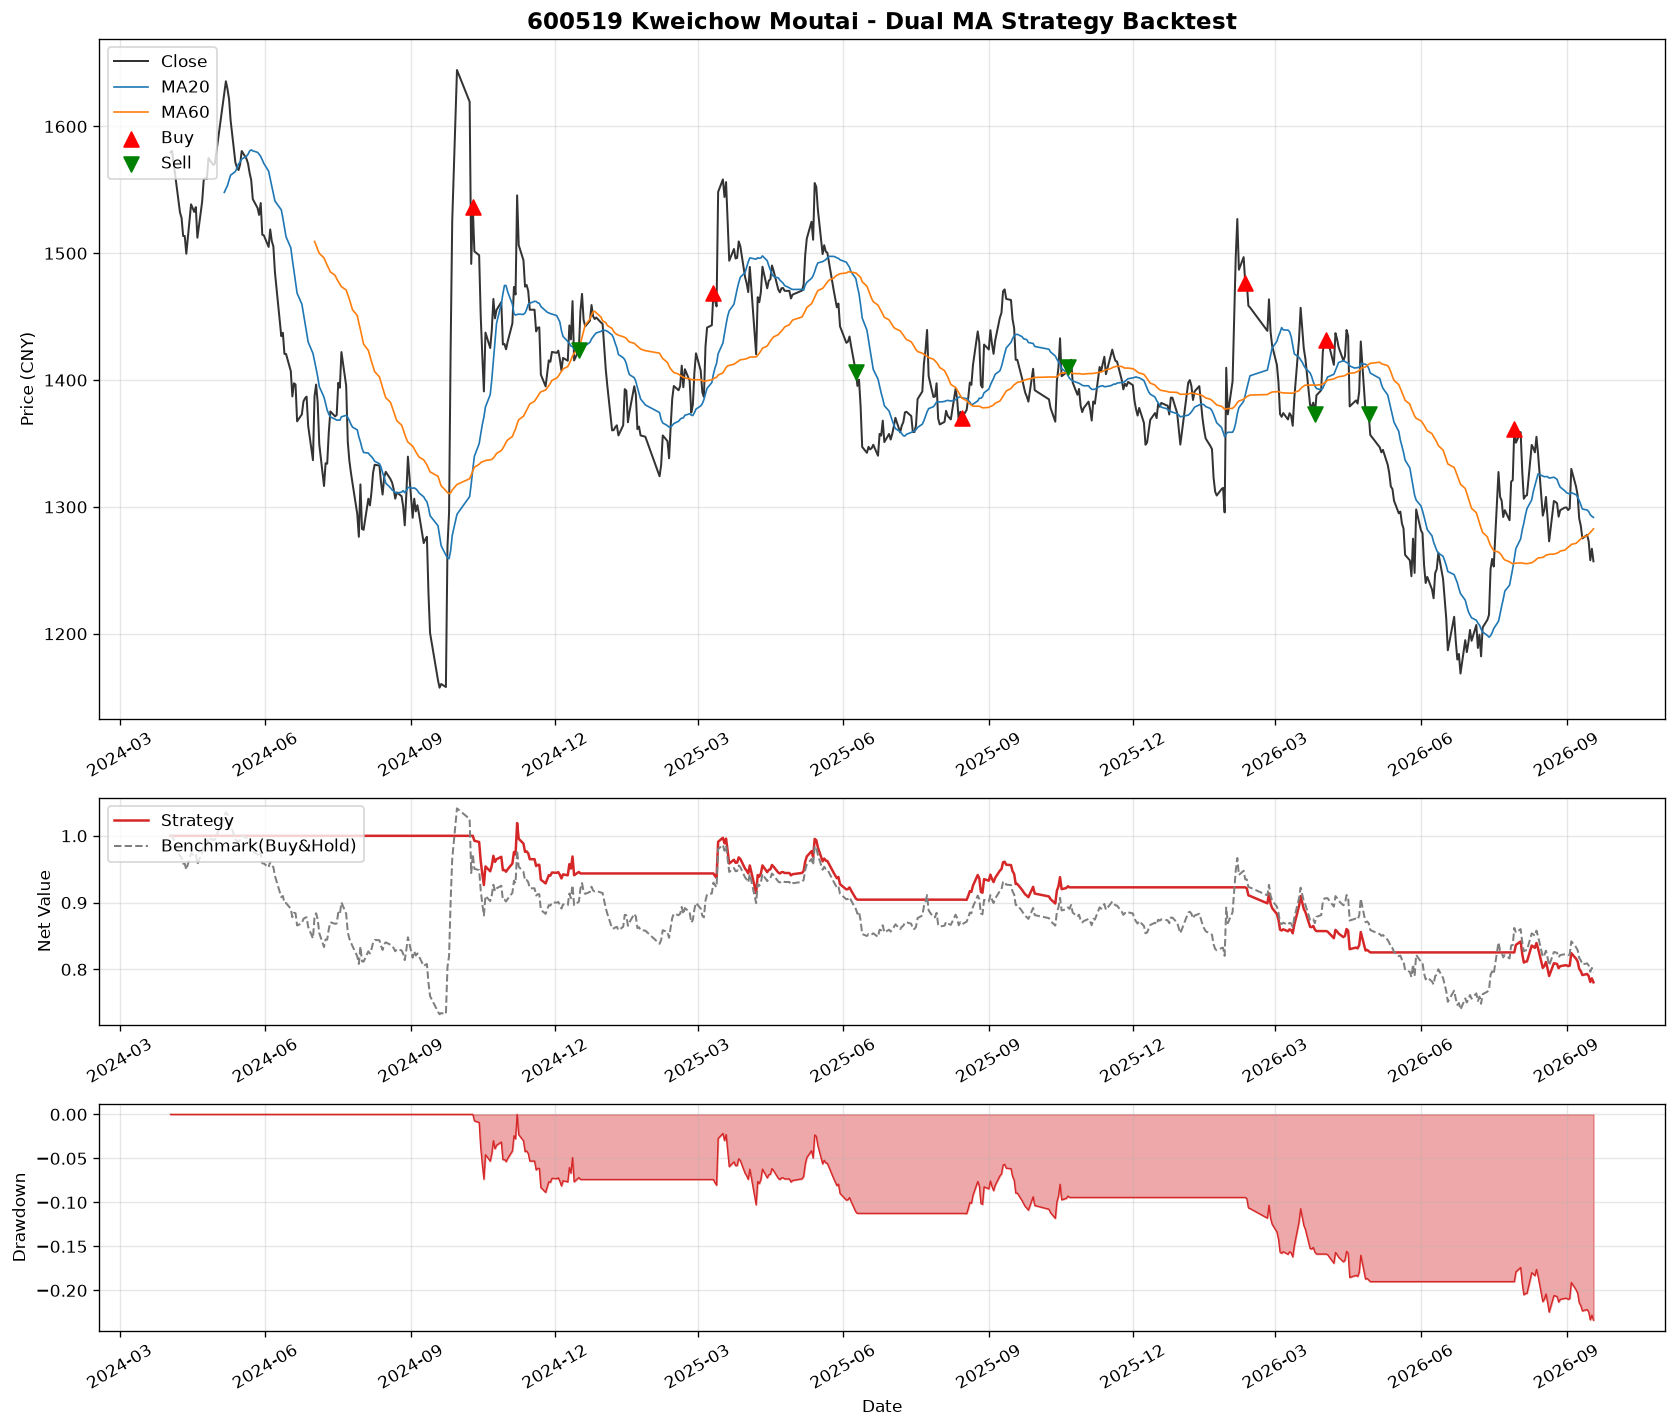
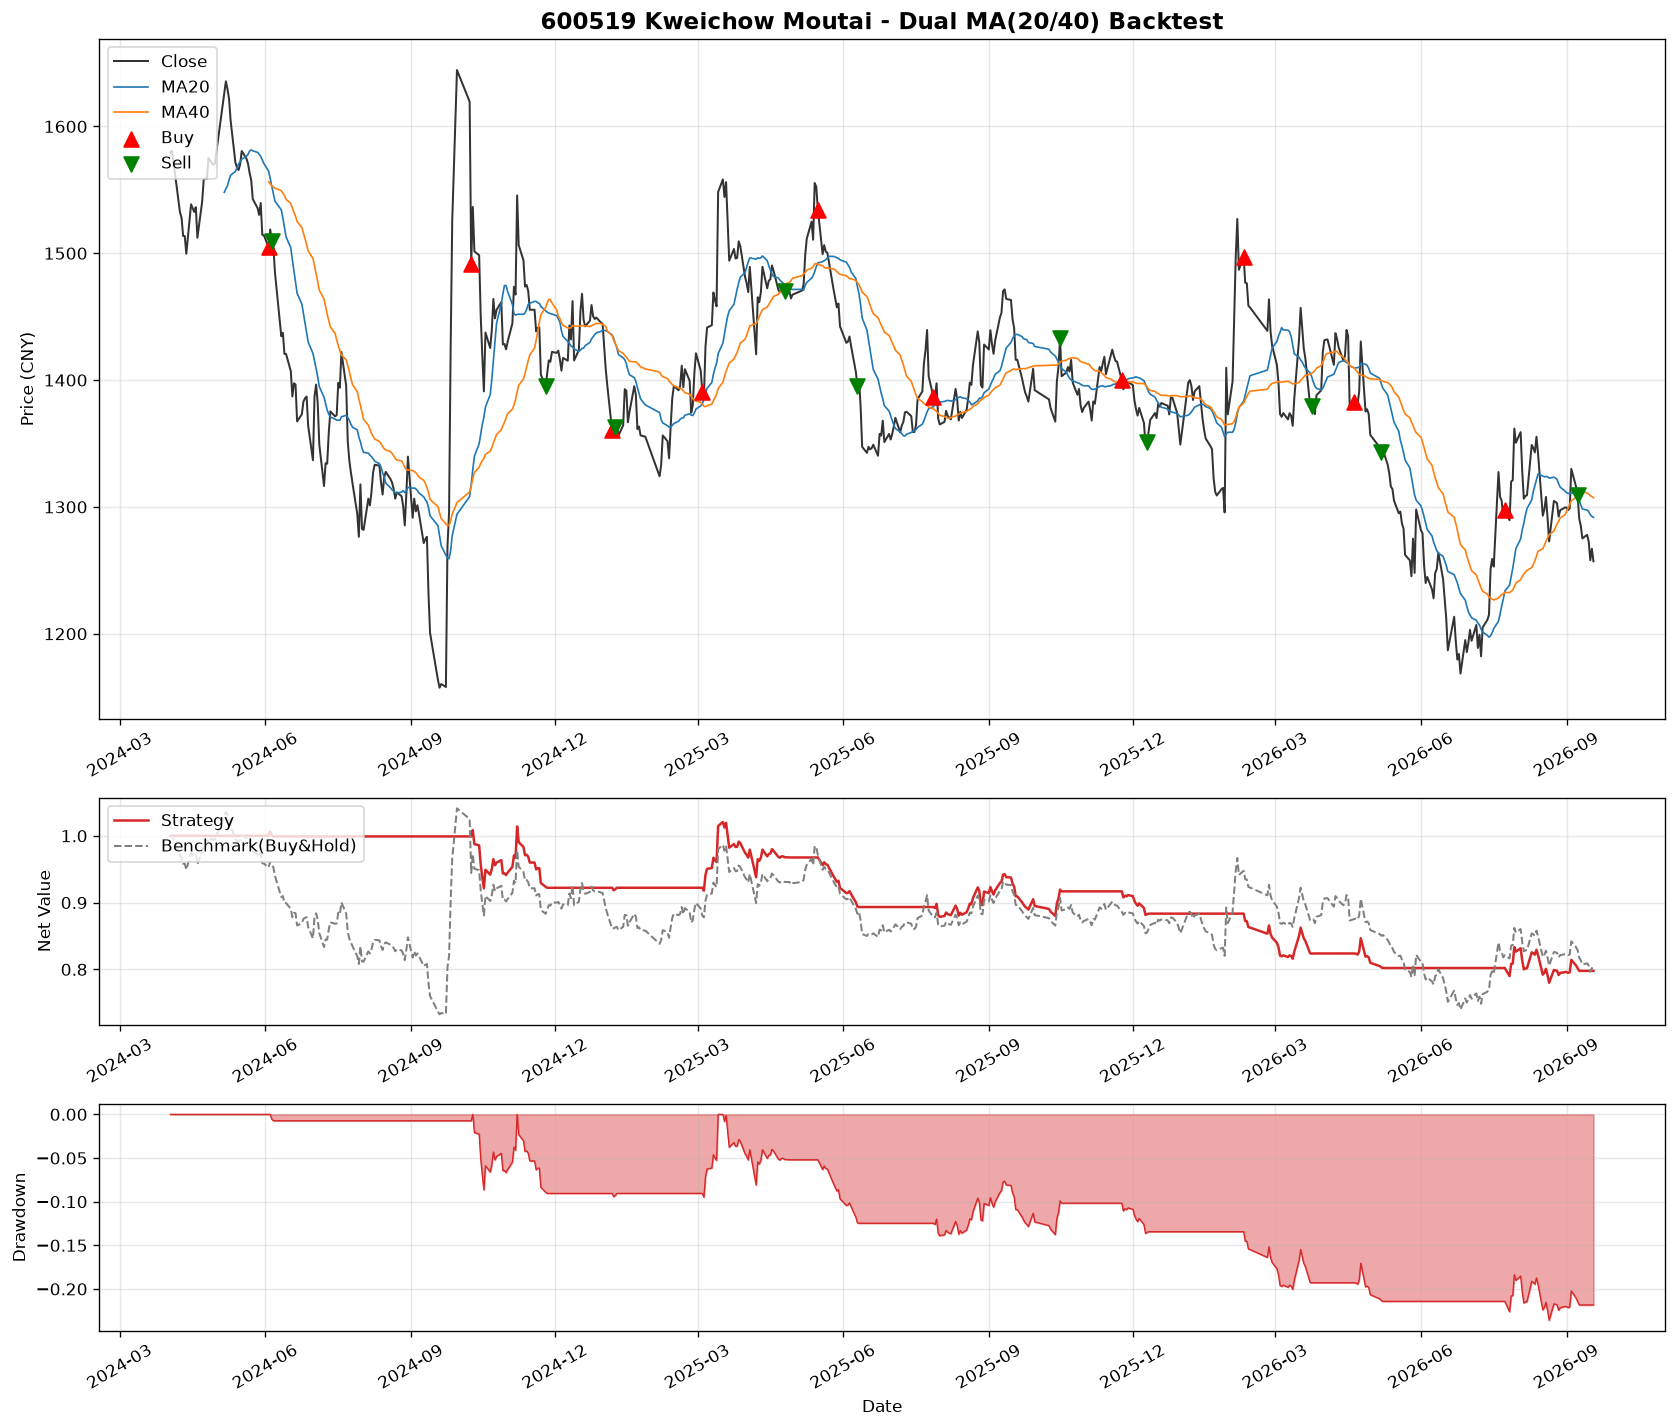
feat: 开发量化交易策略

diff --git a/quant_strategy.py b/quant_strategy.py
@@ -30,12 +30,12 @@ DATA_PATH = "/workspace/600519_daily.csv"
 
 
 # ======================== 1. 数据加载 ========================
-def load_data(path: str) -> pd.DataFrame:
+def load_data(path: str, ma_short: int = MA_SHORT, ma_long: int = MA_LONG) -> pd.DataFrame:
     df = pd.read_csv(path, parse_dates=["date"])
     df = df.sort_values("date").reset_index(drop=True)
-    # 计算均线
-    df["ma_short"] = df["close"].rolling(MA_SHORT).mean()
-    df["ma_long"] = df["close"].rolling(MA_LONG).mean()
+    # 计算均线 (参数化, 便于网格搜索)
+    df["ma_short"] = df["close"].rolling(ma_short).mean()
+    df["ma_long"] = df["close"].rolling(ma_long).mean()
     return df
 
 
@@ -184,40 +184,48 @@ def calc_metrics(df: pd.DataFrame) -> dict:
 
 
 # ======================== 5. 可视化 ========================
-def plot_result(df: pd.DataFrame, out_path: str = "/workspace/backtest_result.png"):
+def plot_result(df: pd.DataFrame, ma_short: int = MA_SHORT, ma_long: int = MA_LONG,
+                out_path: str = "/workspace/backtest_result.png"):
     fig, axes = plt.subplots(3, 1, figsize=(14, 12), gridspec_kw={"height_ratios": [3, 1, 1]})
 
     # ---- 子图1: 价格 + 均线 + 买卖点 ----
     ax = axes[0]
     ax.plot(df["date"], df["close"], label="Close", color="#333", linewidth=1.2)
-    ax.plot(df["date"], df["ma_short"], label=f"MA{MA_SHORT}", color="#1f77b4", linewidth=1)
-    ax.plot(df["date"], df["ma_long"], label=f"MA{MA_LONG}", color="#ff7f0e", linewidth=1)
+    # 防御式: 均线列存在才绘制
+    if "ma_short" in df.columns:
+        ax.plot(df["date"], df["ma_short"], label=f"MA{ma_short}", color="#1f77b4", linewidth=1)
+    if "ma_long" in df.columns:
+        ax.plot(df["date"], df["ma_long"], label=f"MA{ma_long}", color="#ff7f0e", linewidth=1)
 
     # 买卖点 (信号日次日开盘成交, 标注在信号日)
-    buy = df[df["signal"] == 1]
-    sell = df[df["signal"] == -1]
-    ax.scatter(buy["date"], buy["close"], marker="^", color="red", s=80, zorder=5, label="Buy")
-    ax.scatter(sell["date"], sell["close"], marker="v", color="green", s=80, zorder=5, label="Sell")
-    ax.set_title("600519 Kweichow Moutai - Dual MA Strategy Backtest", fontsize=14, fontweight="bold")
+    if "signal" in df.columns:
+        buy = df[df["signal"] == 1]
+        sell = df[df["signal"] == -1]
+        ax.scatter(buy["date"], buy["close"], marker="^", color="red", s=80, zorder=5, label="Buy")
+        ax.scatter(sell["date"], sell["close"], marker="v", color="green", s=80, zorder=5, label="Sell")
+    ax.set_title(f"600519 Kweichow Moutai - Dual MA({ma_short}/{ma_long}) Backtest", fontsize=14, fontweight="bold")
     ax.set_ylabel("Price (CNY)")
     ax.legend(loc="upper left")
     ax.grid(alpha=0.3)
 
     # ---- 子图2: 净值曲线 (策略 vs 基准) ----
     ax = axes[1]
-    ax.plot(df["date"], df["strategy_nav"], label="Strategy", color="#d62728", linewidth=1.5)
-    ax.plot(df["date"], df["benchmark_nav"], label="Benchmark(Buy&Hold)", color="#7f7f7f", linewidth=1.2, linestyle="--")
+    if "strategy_nav" in df.columns:
+        ax.plot(df["date"], df["strategy_nav"], label="Strategy", color="#d62728", linewidth=1.5)
+    if "benchmark_nav" in df.columns:
+        ax.plot(df["date"], df["benchmark_nav"], label="Benchmark(Buy&Hold)", color="#7f7f7f", linewidth=1.2, linestyle="--")
     ax.set_ylabel("Net Value")
     ax.legend(loc="upper left")
     ax.grid(alpha=0.3)
 
     # ---- 子图3: 回撤 ----
     ax = axes[2]
-    nav = df["strategy_nav"].values
-    running_max = np.maximum.accumulate(nav)
-    drawdown = (nav - running_max) / running_max
-    ax.fill_between(df["date"], drawdown, 0, color="#d62728", alpha=0.4)
-    ax.plot(df["date"], drawdown, color="#d62728", linewidth=0.8)
+    if "strategy_nav" in df.columns:
+        nav = df["strategy_nav"].values
+        running_max = np.maximum.accumulate(nav)
+        drawdown = (nav - running_max) / running_max
+        ax.fill_between(df["date"], drawdown, 0, color="#d62728", alpha=0.4)
+        ax.plot(df["date"], drawdown, color="#d62728", linewidth=0.8)
     ax.set_ylabel("Drawdown")
     ax.set_xlabel("Date")
     ax.grid(alpha=0.3)
@@ -233,25 +241,72 @@ def plot_result(df: pd.DataFrame, out_path: str = "/workspace/backtest_result.pn
     return out_path
 
 
+# ======================== 6. 单次回测 (供网格搜索调用) ========================
+def run_single_backtest(ma_short: int, ma_long: int) -> tuple[dict, pd.DataFrame]:
+    """对指定均线周期运行完整回测, 返回 (指标字典, 回测DataFrame)"""
+    df = load_data(DATA_PATH, ma_short=ma_short, ma_long=ma_long)
+    df = generate_signals(df)
+    df = backtest(df)
+    metrics = calc_metrics(df)
+    return metrics, df
+
+
+# ======================== 7. 参数网格搜索 ========================
+def grid_search(short_range: list[int], long_range: list[int]) -> pd.DataFrame:
+    """
+    遍历所有 (短周期, 长周期) 组合, 返回按夏普比率排序的结果表.
+    要求: 短周期 < 长周期.
+    """
+    results = []
+    for s in short_range:
+        for l in long_range:
+            if s >= l:
+                continue
+            metrics, _ = run_single_backtest(s, l)
+            # 提取数值型指标用于排序
+            results.append({
+                "ma_short": s,
+                "ma_long": l,
+                "总收益%": float(metrics["策略总收益"].replace("%", "")),
+                "年化%": float(metrics["策略年化"].replace("%", "")),
+                "夏普": float(metrics["夏普比率"]),
+                "最大回撤%": float(metrics["最大回撤"].replace("%", "")),
+                "交易次数": int(metrics["交易次数"]),
+                "胜率%": float(metrics["胜率"].replace("%", "")),
+            })
+    res_df = pd.DataFrame(results).sort_values("夏普", ascending=False).reset_index(drop=True)
+    return res_df
+
+
 # ======================== 主流程 ========================
 def main():
     print("=" * 60)
     print("  双均线趋势跟踪策略 回测报告")
-    print(f"  参数: MA_SHORT={MA_SHORT}, MA_LONG={MA_LONG}")
     print(f"  手续费={COMMISSION_RATE*100:.2f}%  滑点={SLIPPAGE_RATE*100:.2f}%  印花税={STAMP_TAX_RATE*100:.2f}%(卖)")
     print("=" * 60)
 
-    df = load_data(DATA_PATH)
-    df = generate_signals(df)
-    df = backtest(df)
-    metrics = calc_metrics(df)
+    # ---------- 阶段一: 参数网格搜索 ----------
+    print("\n>>> 阶段一: 参数网格搜索 (按夏普比率排序 Top 10)")
+    short_candidates = [5, 10, 15, 20, 30]
+    long_candidates = [40, 60, 90, 120, 150]
+    gs = grid_search(short_candidates, long_candidates)
+    print(gs.head(10).to_string(index=False))
+
+    # 取夏普最高的参数组合
+    best = gs.iloc[0]
+    best_s, best_l = int(best["ma_short"]), int(best["ma_long"])
+    print(f"\n最优参数: MA_SHORT={best_s}, MA_LONG={best_l} (夏普={best['夏普']:.2f})")
+
+    # ---------- 阶段二: 用最优参数回测 ----------
+    print(f"\n>>> 阶段二: 最优参数 (MA{best_s}/MA{best_l}) 回测结果")
+    metrics, df = run_single_backtest(best_s, best_l)
 
     print()
     for k, v in metrics.items():
         print(f"  {k:>12s}: {v}")
     print("=" * 60)
 
-    img = plot_result(df)
+    img = plot_result(df, ma_short=best_s, ma_long=best_l)
     print(f"\n图表已保存: {img}")
 
 
